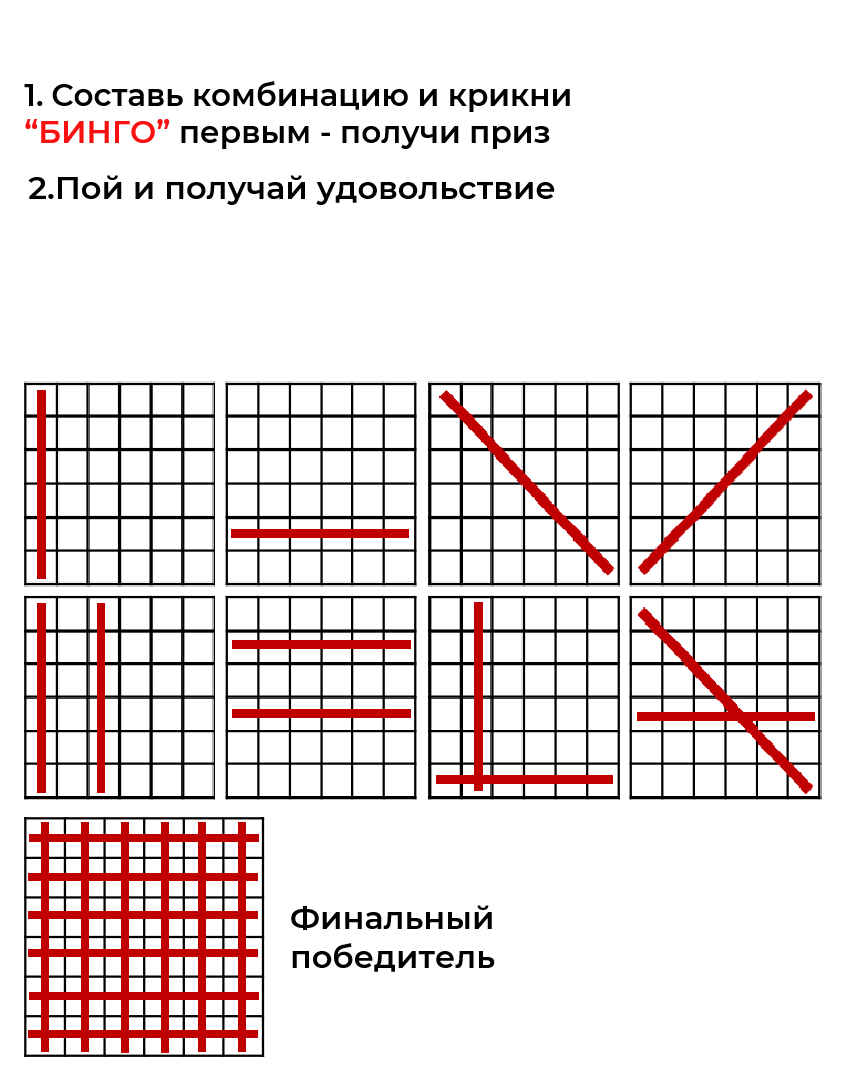
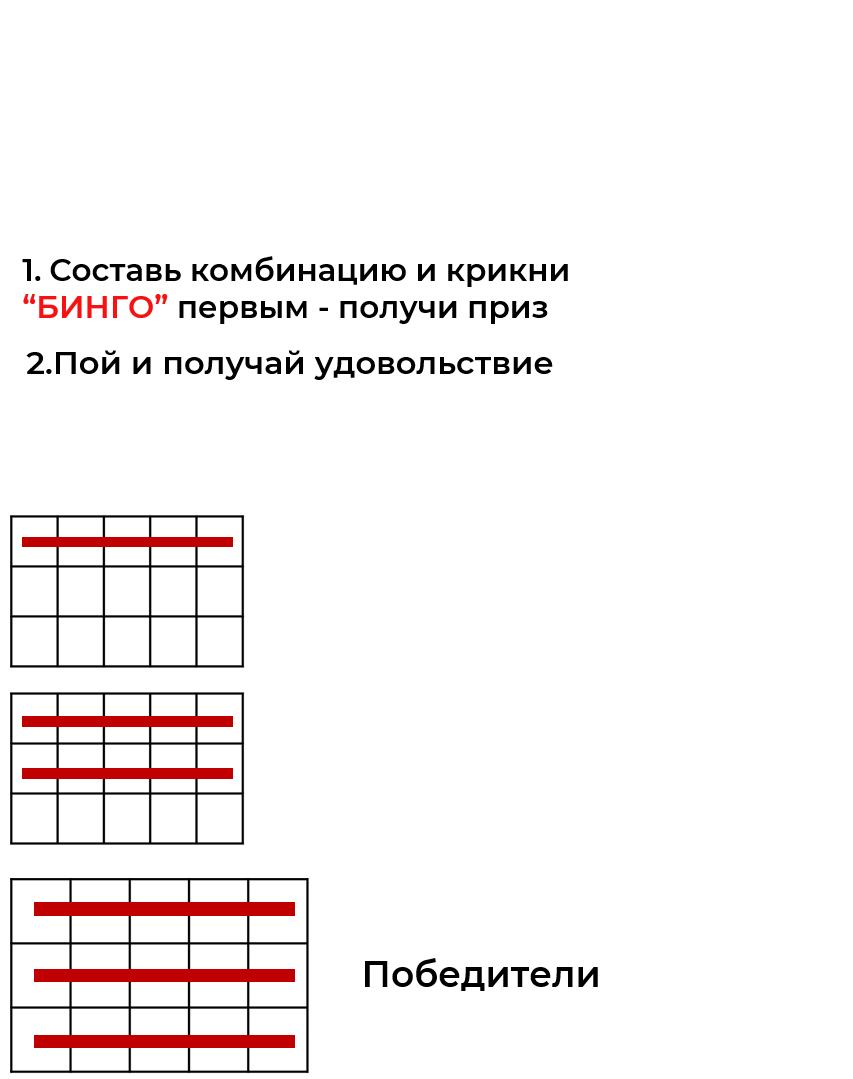
V 1.3.1.0 (NEW ROLES FOR 2 ROUNDS(TICKETS))

Changed region(s): [[0.0, 0.2447, 0.9754, 1.0], [0.0305, 0.0612, 0.6706, 0.1835]]

diff --git a/backend/tickets.py b/backend/tickets.py
@@ -130,10 +130,10 @@ class TicketGenerator:
 
         # Определяем размер таблицы в зависимости от количества раундов
         if rounds == 2:
-            rows, cols = 5, 3  # 5 строк, 3 столбца (вертикальная таблица)
+            rows, cols = 3, 5  # 3 строки, 5 столбцов (3x5)
             slots_per_ticket = rows * cols  # 15 ячеек
         else:
-            rows, cols = 6, 6  # 6 строк, 6 столбцов (квадратная таблица)
+            rows, cols = 6, 6  # 6 строк, 6 столбцов (6x6)
             slots_per_ticket = rows * cols  # 36 ячеек
             
         ticket_sets = self._generate_random_ticket_sets(tracks, count, slots_per_ticket)
@@ -196,10 +196,10 @@ class TicketGenerator:
 
         # Размеры таблицы в зависимости от количества строк и столбцов
         if rounds == 2:
-            # Для 2 раундов: таблица 5x3 (вертикальная)
-            # Уменьшаем ширину таблицы, но оставляем хорошую высоту
-            table_width = 25.0 * cm  # Уже для 3 колонок
-            table_height = 32.0 * cm  # Для 5 строк
+            # Для 2 раундов: таблица 3x5 (горизонтальная)
+            # Увеличиваем ширину для 5 колонок, уменьшаем высоту для 3 строк
+            table_width = 36.95 * cm  # Такая же ширина как для 6x6
+            table_height = 18.7 * cm  # Половина высоты (для 3 строк)
         else:
             # Для 3 раундов: таблица 6x6
             table_width = 36.95 * cm
@@ -254,9 +254,9 @@ class TicketGenerator:
         padding_x = 8
         padding_y = 6
 
-        # Увеличиваем шрифт для 2 раундов (меньше ячеек - больше места)
-        if rows == 5 and cols == 3:
-            font_size = 24  # Больший шрифт для 2 раундов
+        # Увеличиваем шрифт для 2 раундов (меньше строк - больше места по высоте)
+        if rows == 3 and cols == 5:
+            font_size = 22  # Увеличиваем шрифт для 2 раундов
 
         for r in range(rows):
             for col in range(cols):
